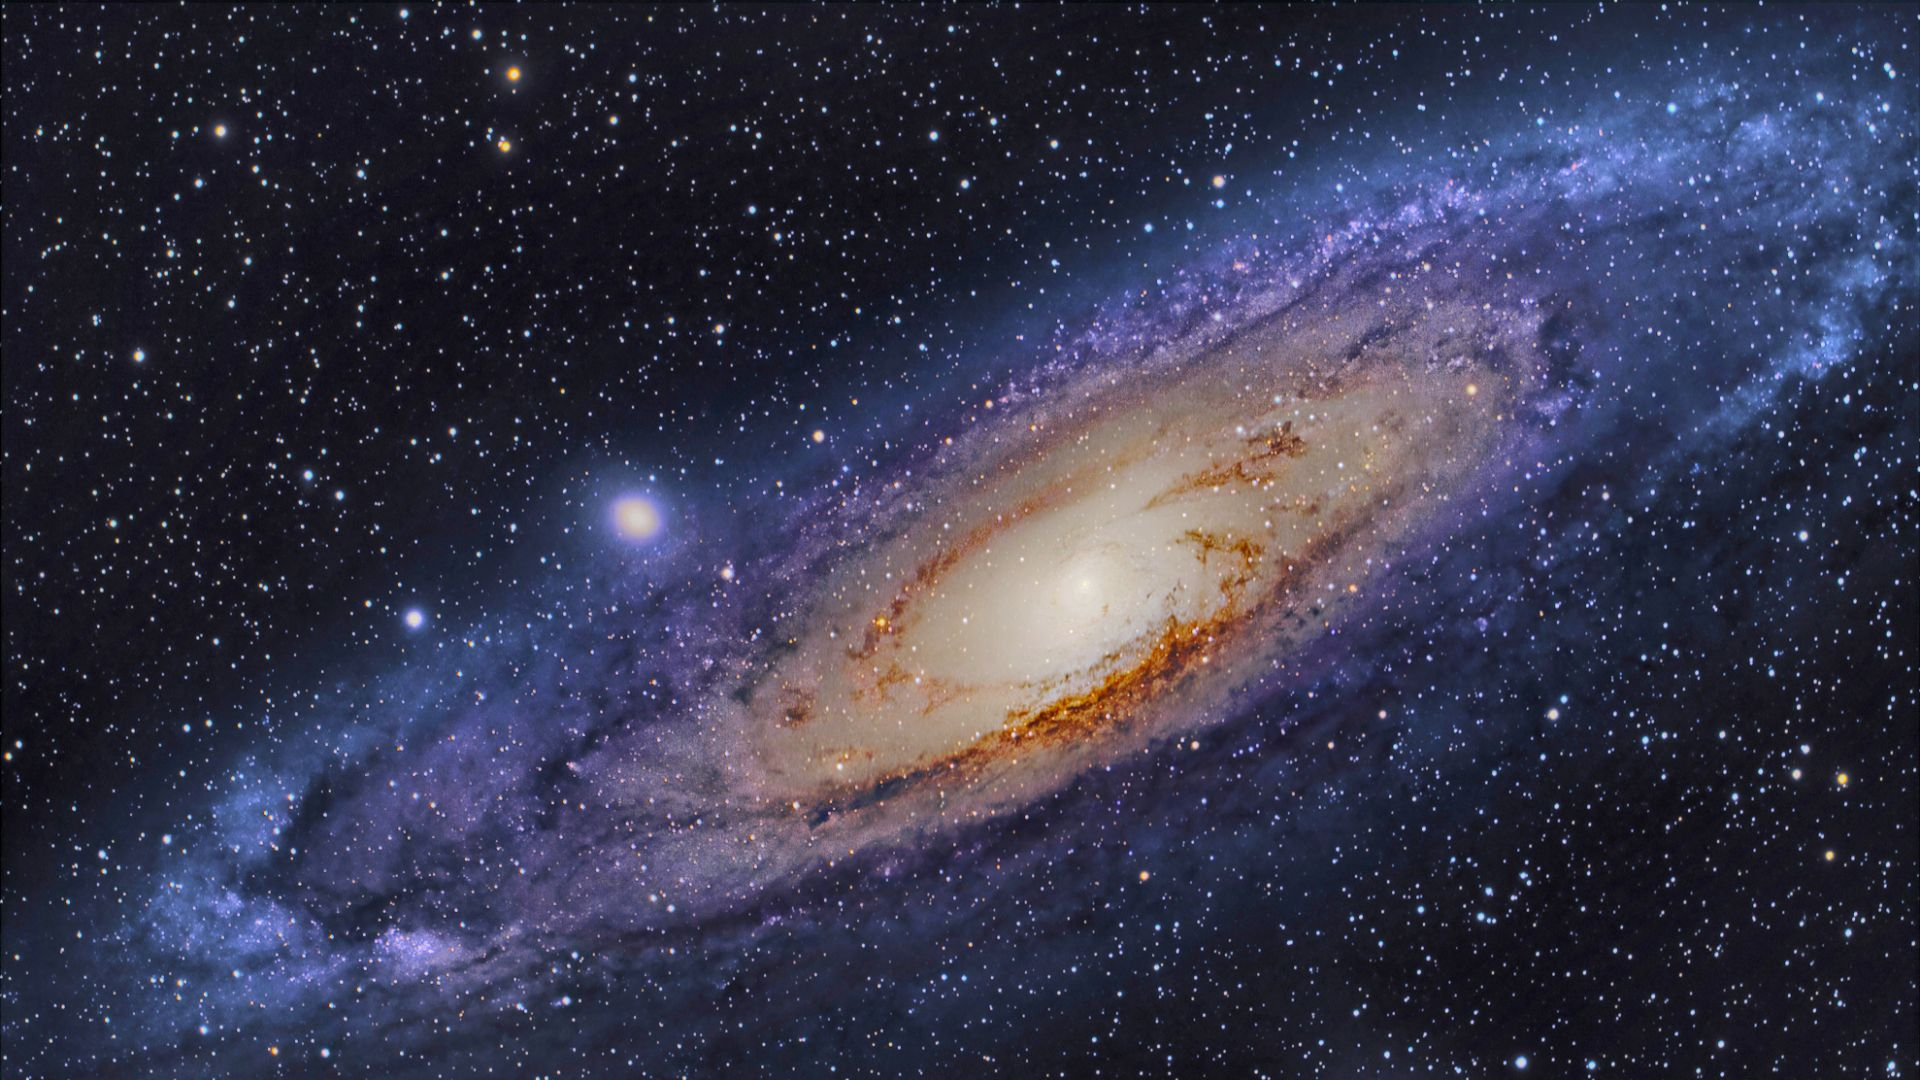
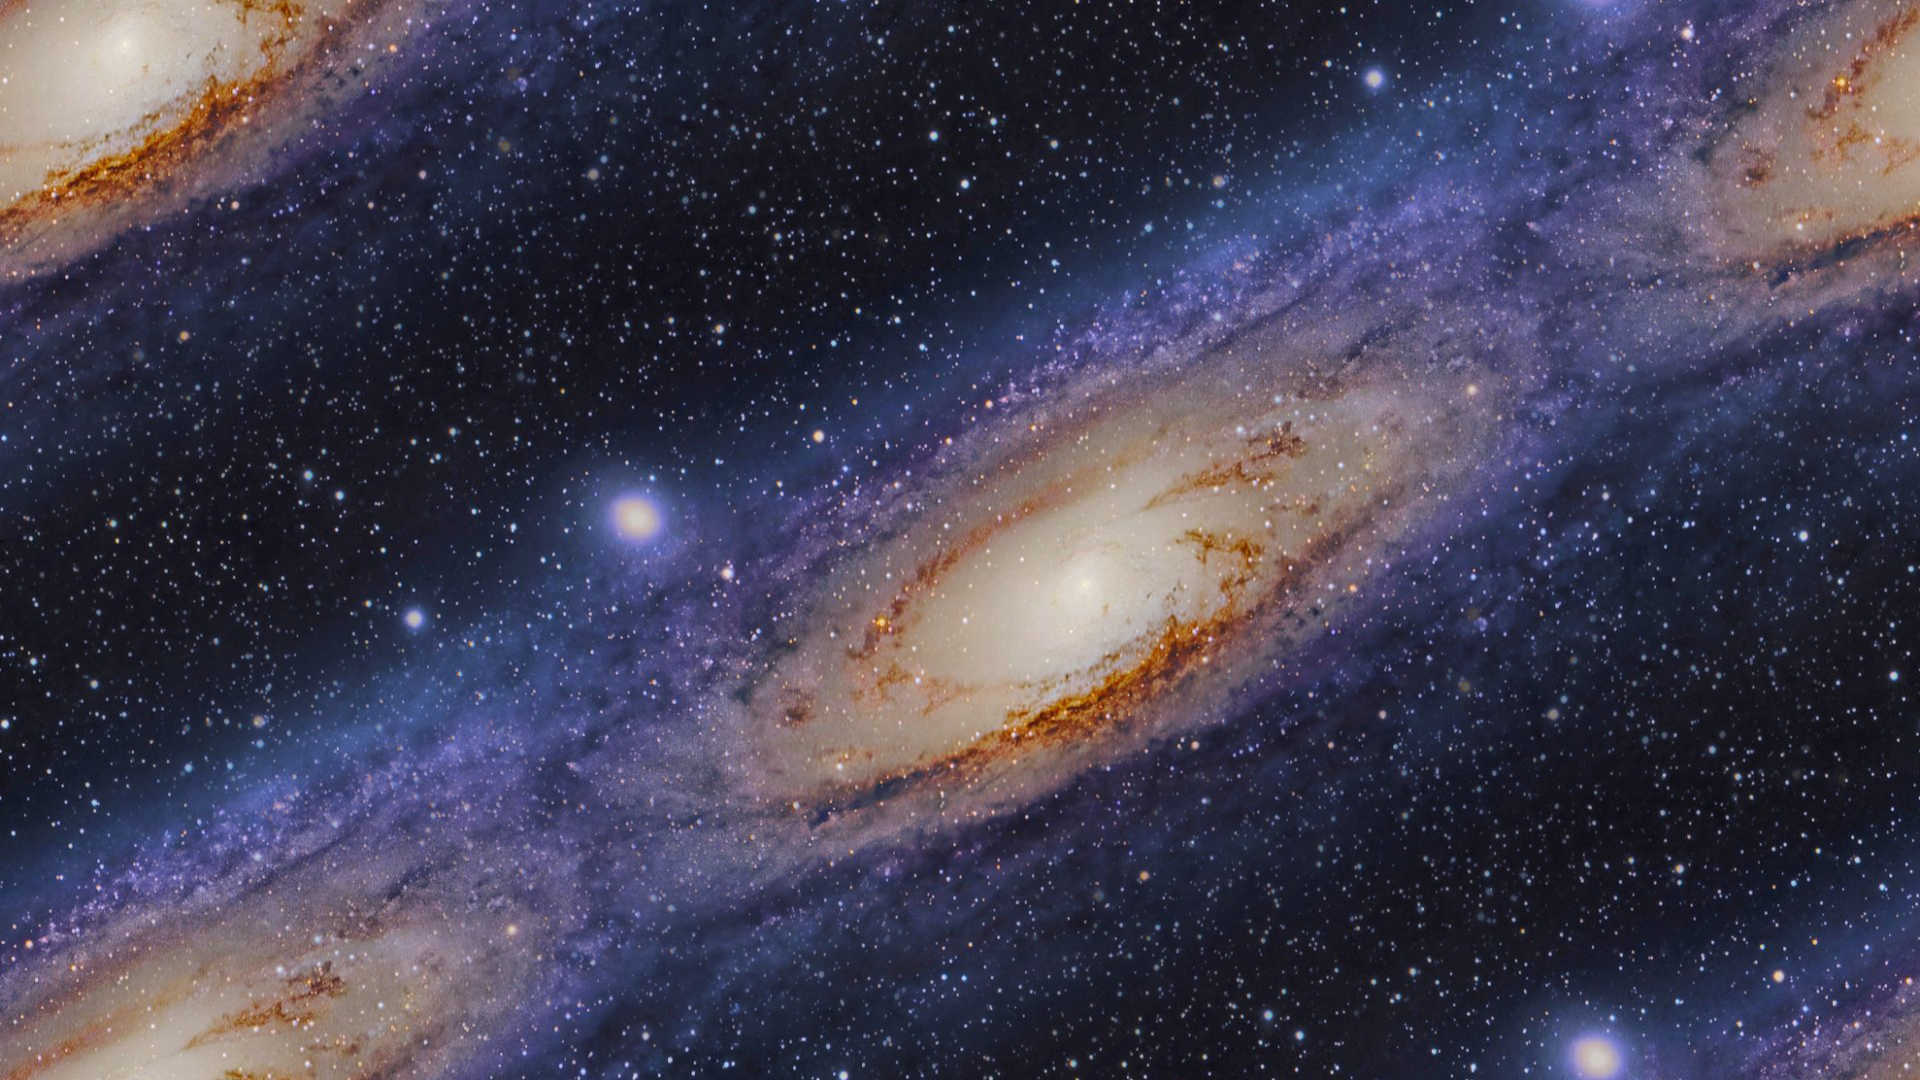
(dev) add files from integration

diff --git a/libs/graphics/src/background_sprite.cpp b/libs/graphics/src/background_sprite.cpp
@@ -1,0 +1,50 @@
+//
+// Created by volodya on 13.05.2021.
+//
+
+#include "background_sprite.h"
+namespace graphics {
+    std::pair<int, int> BackgroundSprite::get_texture_pos() {
+        return _sprite->get_texture_pos();
+    }
+
+    std::pair<int, int> BackgroundSprite::get_texture_size() {
+        return _sprite->get_texture_size();
+    }
+
+    ITexture &BackgroundSprite::get_texture() {
+        return _sprite->get_texture();
+    }
+
+    void BackgroundSprite::draw(ICanvas *canvas) {
+        auto w = canvas->get_width() , h = canvas->get_height();
+
+        auto pos = get_pos();
+        math::coords_t new_pos(0,0);
+
+        auto ww = _sprite->get_texture_size().first;
+        auto hh = _sprite->get_texture_size().second;
+
+        new_pos.x = (int(pos.x) % ww + ww) % ww - ww;
+        new_pos.y = (int(pos.y) % hh + hh) % hh - hh;
+
+        for (int x = new_pos.x; x < w + ww; x+=ww)
+        {
+            for (int y = new_pos.y; y < h + hh; y +=hh)
+            {
+                _sprite->set_pos(math::coords_t(x, y));
+                _sprite->draw(canvas);
+            }
+        }
+    }
+
+    BackgroundSprite::BackgroundSprite(std::unique_ptr<Sprite> &&sprite):
+        Sprite(
+                sprite->get_texture_pos(),
+                sprite->get_texture_size(),
+                &sprite->get_texture()
+                ),
+        _sprite(std::move(sprite)) {
+
+    }
+}

diff --git a/libs/sf_graphics/src/sf_graphics_factory.cpp b/libs/sf_graphics/src/sf_graphics_factory.cpp
@@ -2,6 +2,7 @@
 // Created by volodya on 06.05.2021.
 //
 #include <SFML/Graphics/Texture.hpp>
+#include <graphics/background_sprite.h>
 
 #include "sf_graphics/sf_graphics_factory.h"
 #include "sf_graphics/sf_rect.h"
@@ -26,7 +27,11 @@ namespace graphics::sf {
     std::unique_ptr<Sprite> SfGraphicsFactory::create_sprite(const SpriteInfo &info, TextureStorage &storage) {
         auto texture = dynamic_cast<SfTexture *> (storage.get(info.filename));
         if (info.frames == 0) {
-            return std::unique_ptr<Sprite>(new sf::SfSprite(info.pos, info.size, texture));
+            auto sprite = std::unique_ptr<Sprite>(new sf::SfSprite(info.pos, info.size, texture));
+            if (info.is_bg){
+                return std::make_unique<BackgroundSprite>(std::move(sprite));
+            }
+            return sprite;
         }
         return std::unique_ptr<Sprite>(new sf::SfHorizontalAnimatedSprite(info.frames, info.pos, info.size, texture));
     }

diff --git a/libs/event_controller/test/tests/test.cpp b/libs/event_controller/test/tests/test.cpp
@@ -10,8 +10,8 @@
 #include "event_controller/i_eventable.h"
 #include "event_controller/i_subscriber.h"
 #include "event_controller/controller.h"
-#include <game_manager/game_manager.h>
-#include <game_manager/commands/nothing_command.h>
+#include <game_manager/game_manager.hpp>
+#include <game_manager/commands/nothing_command.hpp>
 #include <event_controller/event/close_event.h>
 
 
@@ -55,7 +55,7 @@ public:
                 EXPECT_EQ(1, 0); // @todo find correct version
                 break;
         }
-        return std::make_shared<game_manager::command::NothingCommand>();
+        return std::make_shared<game_manager::command::DoNothing>();
     };
 };
 

diff --git a/libs/graphics/include/graphics/background_sprite.h b/libs/graphics/include/graphics/background_sprite.h
@@ -1,0 +1,25 @@
+//
+// Created by volodya on 13.05.2021.
+//
+
+#ifndef VOYAGER_BACKGROUND_SPRITE_H
+#define VOYAGER_BACKGROUND_SPRITE_H
+
+#include "graphics/sprite.h"
+namespace graphics {
+    class BackgroundSprite: public Sprite {
+        std::unique_ptr<Sprite> _sprite;
+    public:
+        explicit BackgroundSprite(std::unique_ptr<Sprite> &&sprite);
+
+        std::pair<int, int> get_texture_pos() override;
+
+        std::pair<int, int> get_texture_size() override;
+
+        ITexture &get_texture() override;
+
+        void draw(ICanvas *canvas) override;
+    };
+}
+
+#endif //VOYAGER_BACKGROUND_SPRITE_H

diff --git a/libs/event_controller/include/event_controller/event/keyboard_event.h b/libs/event_controller/include/event_controller/event/keyboard_event.h
@@ -5,12 +5,12 @@
 #ifndef VOYAGER_KEYBOARD_EVENT_H
 #define VOYAGER_KEYBOARD_EVENT_H
 
-#include "event.h"
+#include "event_controller/event.h"
 
 
 namespace event_controller {
 
-    enum Key {
+    typedef enum class Key {
         Unknown = -1, A = 0, B, C,
         D, E, F, G,
         H, I, J, K,
@@ -38,7 +38,7 @@ namespace event_controller {
         F11, F12, F13, F14,
         F15, Pause, KeyCount, Dash = Hyphen,
         BackSpace = Backspace, BackSlash = Backslash, SemiColon = Semicolon, Return = Enter
-    };
+    } Key;
 
     class KeyboardEvent: public Event{
     public:

diff --git a/libs/event_controller/src/controller.cpp b/libs/event_controller/src/controller.cpp
@@ -19,8 +19,11 @@ namespace event_controller {
         while (_is_runned) {
             std::unique_ptr<Event> event = _eventable.get_event();
 
-            for (auto subscriber: _subscribers[event->type])
+            auto current_subscribers = _subscribers[event->type];
+            for (auto subscriber: current_subscribers)
             {
+                if (!subscriber)
+                    continue;
                 auto command = subscriber->update(*event);
                 command->execute(_manager);
             }

diff --git a/libs/graphics/src/json_sprite_sheet_loader.cpp b/libs/graphics/src/json_sprite_sheet_loader.cpp
@@ -4,7 +4,7 @@
 
 
 #include "graphics/json_sprite_sheet_loader.h"
-#include <game_manager/config.h>
+#include <game_manager/config.hpp>
 
 #include <boost/property_tree/ptree.hpp>
 #include <boost/property_tree/json_parser.hpp>
@@ -45,6 +45,7 @@ void graphics::JsonSpriteSheetLoader::_load_info() {
         info.filename = tpath.string();
 
         info.frames = item.second.get<int>("frames");
+        info.is_bg = item.second.get<bool>("is_bg", false);
 
         _sprites.push_back(info);
     }

diff --git a/libs/graphics/include/graphics/i_drawable.h b/libs/graphics/include/graphics/i_drawable.h
@@ -28,8 +28,11 @@ namespace graphics {
     class IDrawable {
     public:
         virtual void draw(ICanvas *) = 0;
-        virtual void draw(std::unique_ptr<ICanvas> &canvas) {
+        void draw(std::unique_ptr<ICanvas> &canvas) {
             draw(canvas.get());
+        }
+        void draw(ICanvas &canvas) {
+            draw(&canvas);
         }
 
         virtual ~IDrawable() = default;

diff --git a/libs/event_controller/src/sf_eventable_impl.cpp b/libs/event_controller/src/sf_eventable_impl.cpp
@@ -28,7 +28,7 @@ namespace event_controller {
                     continue;
             }
         }
-        // @todo fix this stuff
+
         window.display();
         window.clear();
         return std::make_unique<FPSEvent>();

diff --git a/libs/graphics/include/graphics/text.h b/libs/graphics/include/graphics/text.h
@@ -17,6 +17,8 @@ namespace graphics {
         int _size = 16;
         Color _color = Color(0, 0, 0);
     public:
+        Text() = default;
+
         virtual int get_size() const;
 
         virtual void set_size(int size);

diff --git a/libs/event_controller/include/event_controller/event/fps_event.h b/libs/event_controller/include/event_controller/event/fps_event.h
@@ -5,7 +5,7 @@
 #ifndef VOYAGER_FPS_EVENT_H
 #define VOYAGER_FPS_EVENT_H
 
-#include "event.h"
+#include "event_controller/event.h"
 #include "graphics/i_drawable.h"
 
 namespace event_controller {

diff --git a/libs/graphics/include/graphics/sprite_info.h b/libs/graphics/include/graphics/sprite_info.h
@@ -10,6 +10,7 @@ namespace graphics {
         std::pair<int, int> size;
         int frames;
         std::string filename;
+        bool is_bg = false;
     };
 }
 #endif //VOYAGER_SPRITE_INFO_H
